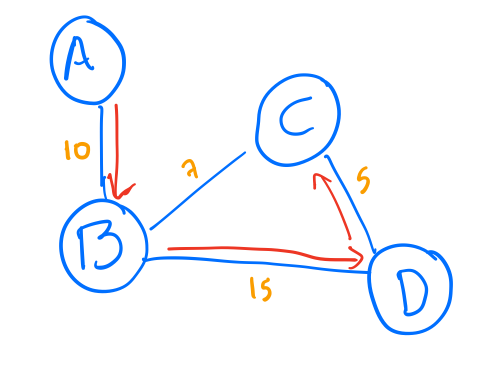
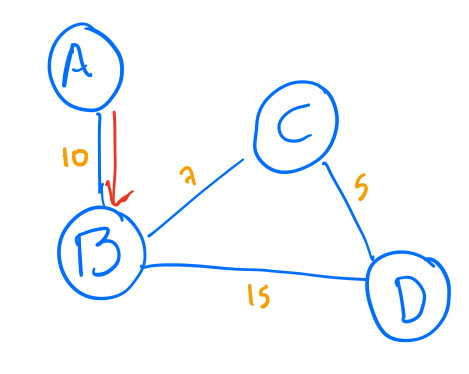
Fixed minor issued in the OPF lecture.

Changed region(s): [[0.0896, 0.0295, 0.9851, 0.9142]]

diff --git a/machine_learning/Classification/Optimum-Path/lecture.tex b/machine_learning/Classification/Optimum-Path/lecture.tex
@@ -152,7 +152,20 @@ Grafo original & Subgrafo gerado & Subgrafo gerador\\
 }
 
 \Sli{
-\justify Grafos podem ser ainda \textbf{ponderados} em suas arestas (distâncias entre cidades, por exemplo). Desta forma, temos que nosso grafo pode ser definido como segue: $G=({\cal V},{\cal E},w)$, em que $w:{\cal E}\rightarrow\mathbb{R}$ é a função que associa pesos às arestas. De acordo com essa definição, temos um importante tipo de grafo chamado de \textbf{árvore geradora mínima}, do inglês \emph{minimum spanning tree} - MST, que é um subgrafo gerador, do tipo árvore, cujo somatório dos pesos das arestas é \textbf{mínimo}.
+\justify Um grafo é dito ser completo quando todos os pares de nós estão conectados. Uma família bastante conhecida de grafos que obedece à esta propriedade é conhecida por $K_z$, em que $z$ denota o número de nós.
+
+\begin{center}
+\begin{tabular}{ccc}
+\includegraphics[scale=0.19]{./figs/OPF_Fig14.png} &
+\includegraphics[scale=0.19]{./figs/OPF_Fig15.png} &
+\includegraphics[scale=0.19]{./figs/OPF_Fig16.png}\\
+$K_1$ (grafo trivial) & $K_2$ & $K_4$\\
+\end{tabular}
+\end{center}
+}
+
+\Sli{
+\justify Grafos podem ser ainda \textbf{ponderados} em suas arestas (distâncias entre cidades, por exemplo). Desta forma, temos que nosso grafo pode ser definido como segue: $G=({\cal V},{\cal E},w)$, em que $w:{\cal V}\times{\cal V}\rightarrow\mathbb{R}$ é a função que associa pesos às arestas. De acordo com essa definição, temos um importante tipo de grafo chamado de \textbf{árvore geradora mínima}, do inglês \emph{minimum spanning tree} - MST, que é um subgrafo gerador, do tipo árvore, cujo somatório dos pesos das arestas é \textbf{mínimo}.
 
 \begin{center}
 \begin{tabular}{cc}
@@ -164,7 +177,7 @@ Grafo original & MST\\
 }
 
 \Sli{
-\justify A técnica Floresta de Caminhos Ótimos, do inglês \emph{Optimum-Path Forest} - OPF, visa modelar o problema de classificação das amostras como sendo uma tarefa de particionamento de um grafo em grupos de amostras com o mesmo rótulo. Neste sentido, as amostras do conjunto de dados correspondem aos nós do grafo e as arestas são definidas por alguma relação de adjacência escolhida previamente. Possui, atualmente, versões supervisionadas, não supervisionadas e semi-supervisionadas.
+\justify A técnica Floresta de Caminhos Ótimos, do inglês \emph{Optimum-Path Forest} - OPF, visa modelar o problema de classificação das amostras como sendo uma tarefa de particionamento de um grafo em grupos de amostras com o mesmo rótulo. Neste sentido, as amostras do conjunto de dados correspondem aos nós do grafo e as arestas são definidas por alguma relação de adjacência escolhida previamente.
 
 \justify \underline{Definição do problema:} dados um conjunto de treinamento rotulado e com $m$ amostras, ou seja, ${\cal X}^1 = \{(\boldsymbol{x}_1,y_1),(\boldsymbol{x}_2,y_2),\ldots,(\boldsymbol{x}_m,y_m)\}$ e um grafo $G=({\cal V},{\cal E},w)$, nosso objetivo é então particionar $G$ em grupos de amostras com o mesmo rótulo. Temos que ${\cal V}=\{\boldsymbol{x}_1,\boldsymbol{x}_2,\ldots,\boldsymbol{x}_m\}$, ${\cal E}$ deve ser escolhido de alguma forma que satisfaça o seu problema e $w$ é geralmente escolhido como uma função distância entre duas amostras, ou seja, $w(\boldsymbol{x}_i,\boldsymbol{x}_j)$ calcula a distância entre os nós (amostras) $\boldsymbol{x}_i$ e $\boldsymbol{x}_j$. De maneira geral, o classificador OPF usa a distância euclidiana para este fim.
 }
@@ -178,7 +191,7 @@ Grafo original & MST\\
 \includegraphics[scale=0.19]{./figs/OPF_Fig12.png} &
 \includegraphics[scale=0.19]{./figs/OPF_Fig13.png}\\
 Grafo original & Passeio & Caminho\\
-& $\pi_B=\langle A,B,D,C,B\rangle$ & $\pi_B=\langle A,B,D,C\rangle$
+& $\pi_B=\langle A,B,D,C,B\rangle$ & $\pi_B=\langle A,B\rangle$
 \end{tabular}
 \end{center}
 }
@@ -202,19 +215,6 @@ Grafo original & Passeio & Caminho\\
 	\item Metodologia para estimar protótipos: MST.
 	\item Função de custo: valor máximo de aresta ao longo do caminho.
 \end{itemize}
-}
-
-\Sli{
-\justify Um grafo é dito ser completo quando todos os pares de nós estão conectados. Uma família bastante conhecida de grafos que obedece à esta propriedade é conhecida por $K_z$, em que $z$ denota o número de nós.
-
-\begin{center}
-\begin{tabular}{ccc}
-\includegraphics[scale=0.19]{./figs/OPF_Fig14.png} &
-\includegraphics[scale=0.19]{./figs/OPF_Fig15.png} &
-\includegraphics[scale=0.19]{./figs/OPF_Fig16.png}\\
-$K_1$ (grafo trivial) & $K_1$ & $K_4$\\
-\end{tabular}
-\end{center}
 }
 
 \Sli{
@@ -261,7 +261,7 @@ Grafo de treinamento & MST & Protótipos selecionados\\
 \justify Como funciona a função de custo de caminho? Como dito anteriormente, OPF pode trabalhar com diferentes opções para relação de adjacência e metodologia para estimar protótipos. O mesmo ocorre com a função de custo. A versão que veremos faz uso da função de custo definida como segue:
 
 \begin{equation}
-	C(\langle \boldsymbol{x}_i\rangle)=
+	C(\boldsymbol{x}_i)=
 \begin{cases}
 0\text{ caso $\boldsymbol{x}_i\in{\cal S}$}\\
 \infty\text{ caso contrário,}
@@ -269,9 +269,9 @@ Grafo de treinamento & MST & Protótipos selecionados\\
 \end{equation}
 e
 \begin{equation}
-	C(\pi_{\boldsymbol{x}_j}\cdot \langle \boldsymbol{x}_j,\boldsymbol{x}_k\rangle)=\max\{C(\boldsymbol{x}_j),w(\boldsymbol{x}_j,\boldsymbol{x}_k)\}.
+	C_{\boldsymbol{x}_j}(\boldsymbol{x}_i)=\max\{C(\boldsymbol{x}_j),w(\boldsymbol{x}_j,\boldsymbol{x}_k)\}.
 \end{equation}
-\justify Neste caso, temos que ${\cal S}$ corresponde ao conjunto de protótipos escolhidos pela MST, $\langle \boldsymbol{x}_i\rangle$ denota o caminho trivial composto apenas pelo nó $\boldsymbol{x}_i$, $C(\langle \boldsymbol{x}_i\rangle)$ corresponde ao custo associado à amostra $\boldsymbol{x}_i$ e $w(\boldsymbol{x}_j,\boldsymbol{x}_k)$ denota a distância (peso da aresta) entre os nós $\boldsymbol{x}_j$ e $\boldsymbol{x}_k$, tal que $\boldsymbol{x}_i,\boldsymbol{x}_j,\boldsymbol{x}_k\in{\cal X}^1$. Já o termo $\pi_{\boldsymbol{x}_j}$ corresponde à um caminho que termina na amostra $\boldsymbol{x}_j$.
+\justify Neste caso, temos que ${\cal S}$ corresponde ao conjunto de protótipos escolhidos pela MST, $C_{\boldsymbol{x}_j}(\boldsymbol{x}_i)$ corresponde ao custo oferecido pela amostra $\boldsymbol{x}_j$ para a amostra $\boldsymbol{x}_i$ e $w(\boldsymbol{x}_j,\boldsymbol{x}_k)$ denota a distância (peso da aresta) entre os nós $\boldsymbol{x}_j$ e $\boldsymbol{x}_k$, tal que $\boldsymbol{x}_i,\boldsymbol{x}_j,\boldsymbol{x}_k\in{\cal X}^1$.
 }
 
 \Sli{
